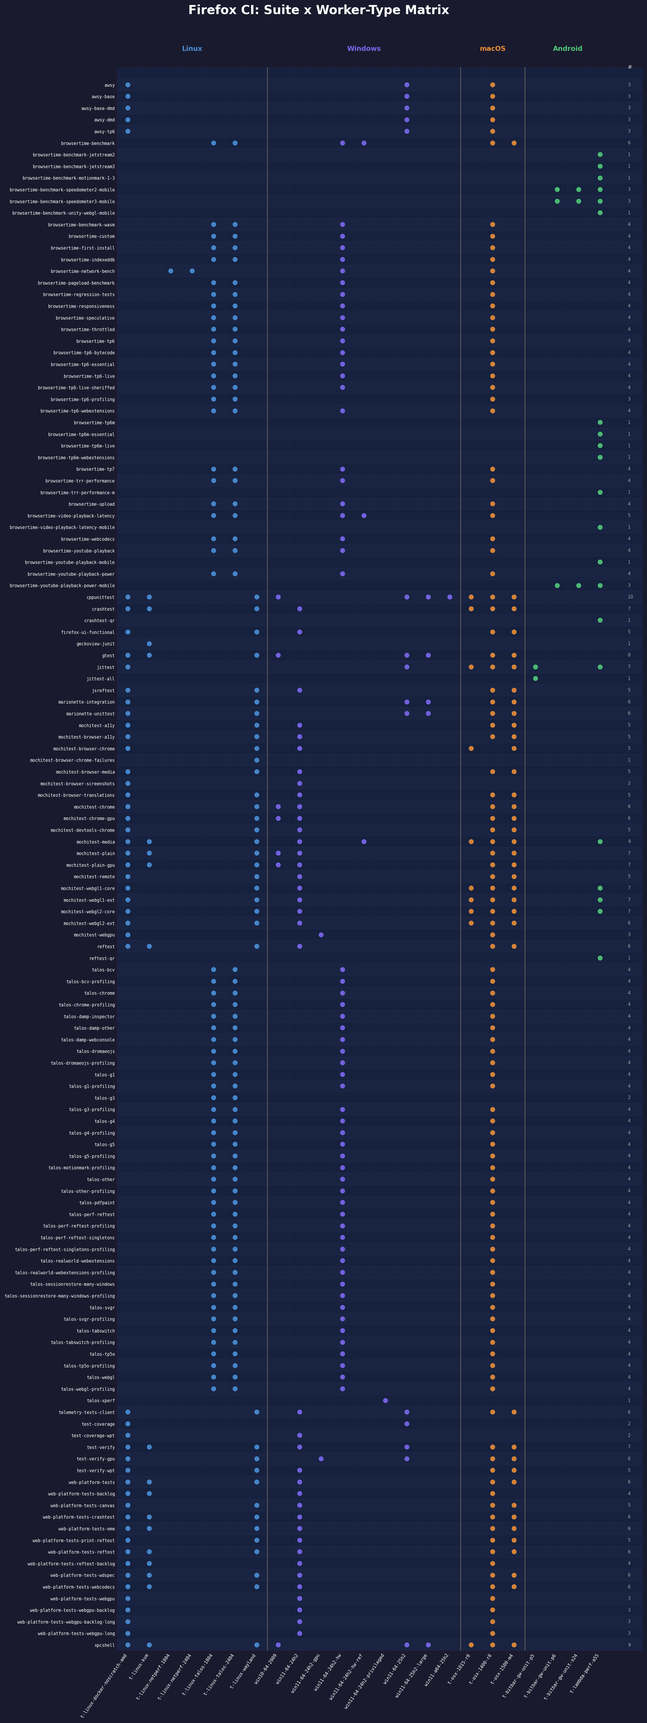
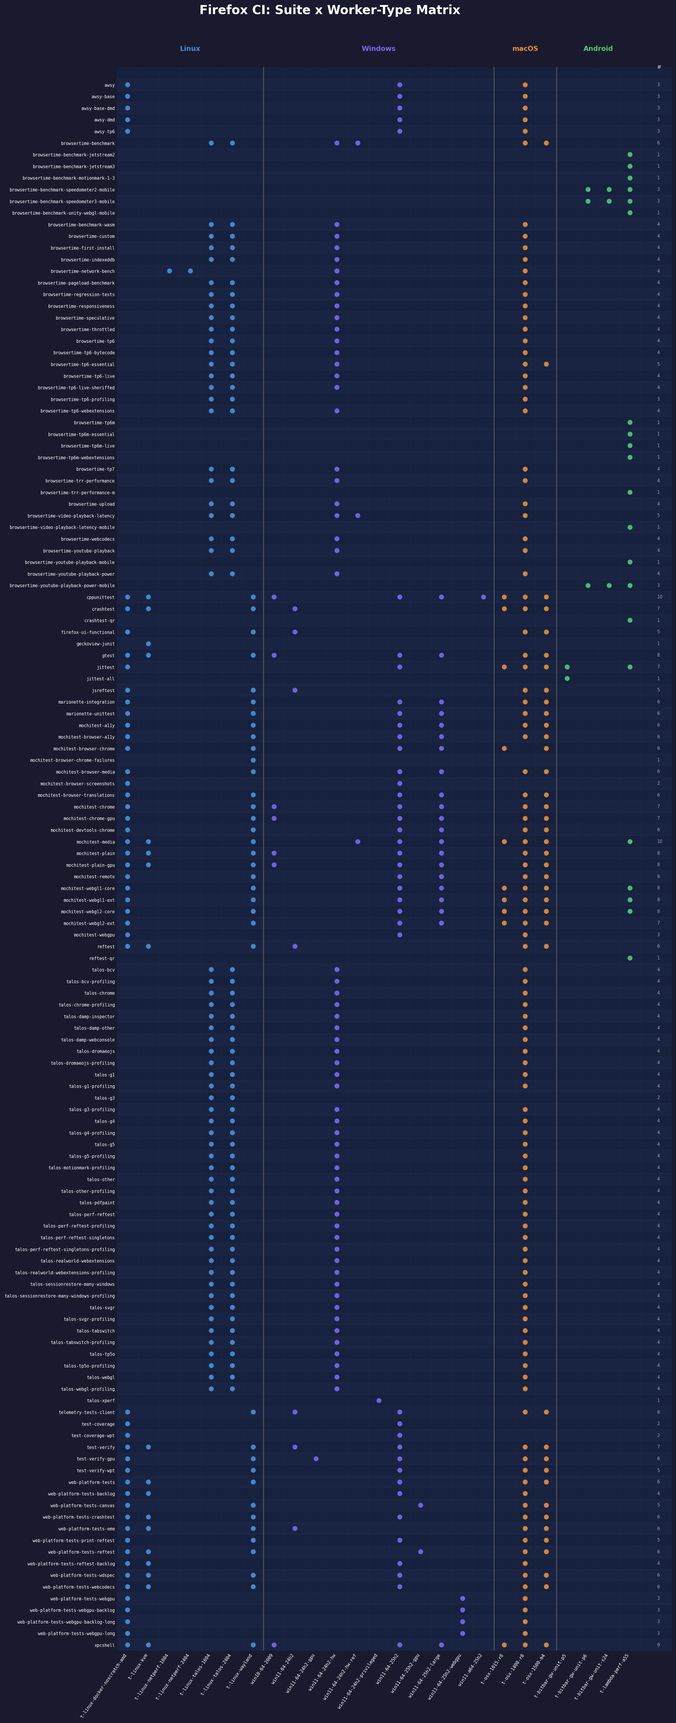
Fix tasks-nesting bug in parser, update data for 25H2 migration progress
Parser was missing worker-type overrides in kind files that nest suites
under a 'tasks:' key.

diff --git a/docs/suite_matrix.html b/docs/suite_matrix.html
@@ -195,7 +195,7 @@
 </div>
 
 <script>
-const data = {"worker_types": ["t-bitbar-gw-unit-p5", "t-bitbar-gw-unit-p6", "t-bitbar-gw-unit-s24", "t-lambda-perf-a55", "t-linux-docker-noscratch-amd", "t-linux-kvm", "t-linux-netperf-1804", "t-linux-netperf-2404", "t-linux-talos-1804", "t-linux-talos-2404", "t-linux-wayland", "t-osx-1015-r8", "t-osx-1400-r8", "t-osx-1500-m4", "win10-64-2009", "win11-64-24h2", "win11-64-24h2-gpu", "win11-64-24h2-hw", "win11-64-24h2-hw-ref", "win11-64-24h2-privileged", "win11-64-25h2", "win11-64-25h2-large", "win11-a64-25h2"], "suites": ["awsy", "awsy-base", "awsy-base-dmd", "awsy-dmd", "awsy-tp6", "browsertime-benchmark", "browsertime-benchmark-jetstream2", "browsertime-benchmark-jetstream3", "browsertime-benchmark-motionmark-1-3", "browsertime-benchmark-speedometer2-mobile", "browsertime-benchmark-speedometer3-mobile", "browsertime-benchmark-unity-webgl-mobile", "browsertime-benchmark-wasm", "browsertime-custom", "browsertime-first-install", "browsertime-indexeddb", "browsertime-network-bench", "browsertime-pageload-benchmark", "browsertime-regression-tests", "browsertime-responsiveness", "browsertime-speculative", "browsertime-throttled", "browsertime-tp6", "browsertime-tp6-bytecode", "browsertime-tp6-essential", "browsertime-tp6-live", "browsertime-tp6-live-sheriffed", "browsertime-tp6-profiling", "browsertime-tp6-webextensions", "browsertime-tp6m", "browsertime-tp6m-essential", "browsertime-tp6m-live", "browsertime-tp6m-webextensions", "browsertime-tp7", "browsertime-trr-performance", "browsertime-trr-performance-m", "browsertime-upload", "browsertime-video-playback-latency", "browsertime-video-playback-latency-mobile", "browsertime-webcodecs", "browsertime-youtube-playback", "browsertime-youtube-playback-mobile", "browsertime-youtube-playback-power", "browsertime-youtube-playback-power-mobile", "cppunittest", "crashtest", "crashtest-qr", "firefox-ui-functional", "geckoview-junit", "gtest", "jittest", "jittest-all", "jsreftest", "marionette-integration", "marionette-unittest", "mochitest-a11y", "mochitest-browser-a11y", "mochitest-browser-chrome", "mochitest-browser-chrome-failures", "mochitest-browser-media", "mochitest-browser-screenshots", "mochitest-browser-translations", "mochitest-chrome", "mochitest-chrome-gpu", "mochitest-devtools-chrome", "mochitest-media", "mochitest-plain", "mochitest-plain-gpu", "mochitest-remote", "mochitest-webgl1-core", "mochitest-webgl1-ext", "mochitest-webgl2-core", "mochitest-webgl2-ext", "mochitest-webgpu", "reftest", "reftest-qr", "talos-bcv", "talos-bcv-profiling", "talos-chrome", "talos-chrome-profiling", "talos-damp-inspector", "talos-damp-other", "talos-damp-webconsole", "talos-dromaeojs", "talos-dromaeojs-profiling", "talos-g1", "talos-g1-profiling", "talos-g3", "talos-g3-profiling", "talos-g4", "talos-g4-profiling", "talos-g5", "talos-g5-profiling", "talos-motionmark-profiling", "talos-other", "talos-other-profiling", "talos-pdfpaint", "talos-perf-reftest", "talos-perf-reftest-profiling", "talos-perf-reftest-singletons", "talos-perf-reftest-singletons-profiling", "talos-realworld-webextensions", "talos-realworld-webextensions-profiling", "talos-sessionrestore-many-windows", "talos-sessionrestore-many-windows-profiling", "talos-svgr", "talos-svgr-profiling", "talos-tabswitch", "talos-tabswitch-profiling", "talos-tp5o", "talos-tp5o-profiling", "talos-webgl", "talos-webgl-profiling", "talos-xperf", "telemetry-tests-client", "test-coverage", "test-coverage-wpt", "test-verify", "test-verify-gpu", "test-verify-wpt", "web-platform-tests", "web-platform-tests-backlog", "web-platform-tests-canvas", "web-platform-tests-crashtest", "web-platform-tests-eme", "web-platform-tests-print-reftest", "web-platform-tests-reftest", "web-platform-tests-reftest-backlog", "web-platform-tests-wdspec", "web-platform-tests-webcodecs", "web-platform-tests-webgpu", "web-platform-tests-webgpu-backlog", "web-platform-tests-webgpu-backlog-long", "web-platform-tests-webgpu-long", "xpcshell"], "matrix": [[0, 0, 0, 0, 1, 0, 0, 0, 0, 0, 0, 0, 1, 0, 0, 0, 0, 0, 0, 0, 1, 0, 0], [0, 0, 0, 0, 1, 0, 0, 0, 0, 0, 0, 0, 1, 0, 0, 0, 0, 0, 0, 0, 1, 0, 0], [0, 0, 0, 0, 1, 0, 0, 0, 0, 0, 0, 0, 1, 0, 0, 0, 0, 0, 0, 0, 1, 0, 0], [0, 0, 0, 0, 1, 0, 0, 0, 0, 0, 0, 0, 1, 0, 0, 0, 0, 0, 0, 0, 1, 0, 0], [0, 0, 0, 0, 1, 0, 0, 0, 0, 0, 0, 0, 1, 0, 0, 0, 0, 0, 0, 0, 1, 0, 0], [0, 0, 0, 0, 0, 0, 0, 0, 1, 1, 0, 0, 1, 1, 0, 0, 0, 1, 1, 0, 0, 0, 0], [0, 0, 0, 1, 0, 0, 0, 0, 0, 0, 0, 0, 0, 0, 0, 0, 0, 0, 0, 0, 0, 0, 0], [0, 0, 0, 1, 0, 0, 0, 0, 0, 0, 0, 0, 0, 0, 0, 0, 0, 0, 0, 0, 0, 0, 0], [0, 0, 0, 1, 0, 0, 0, 0, 0, 0, 0, 0, 0, 0, 0, 0, 0, 0, 0, 0, 0, 0, 0], [0, 1, 1, 1, 0, 0, 0, 0, 0, 0, 0, 0, 0, 0, 0, 0, 0, 0, 0, 0, 0, 0, 0], [0, 1, 1, 1, 0, 0, 0, 0, 0, 0, 0, 0, 0, 0, 0, 0, 0, 0, 0, 0, 0, 0, 0], [0, 0, 0, 1, 0, 0, 0, 0, 0, 0, 0, 0, 0, 0, 0, 0, 0, 0, 0, 0, 0, 0, 0], [0, 0, 0, 0, 0, 0, 0, 0, 1, 1, 0, 0, 1, 0, 0, 0, 0, 1, 0, 0, 0, 0, 0], [0, 0, 0, 0, 0, 0, 0, 0, 1, 1, 0, 0, 1, 0, 0, 0, 0, 1, 0, 0, 0, 0, 0], [0, 0, 0, 0, 0, 0, 0, 0, 1, 1, 0, 0, 1, 0, 0, 0, 0, 1, 0, 0, 0, 0, 0], [0, 0, 0, 0, 0, 0, 0, 0, 1, 1, 0, 0, 1, 0, 0, 0, 0, 1, 0, 0, 0, 0, 0], [0, 0, 0, 0, 0, 0, 1, 1, 0, 0, 0, 0, 1, 0, 0, 0, 0, 1, 0, 0, 0, 0, 0], [0, 0, 0, 0, 0, 0, 0, 0, 1, 1, 0, 0, 1, 0, 0, 0, 0, 1, 0, 0, 0, 0, 0], [0, 0, 0, 0, 0, 0, 0, 0, 1, 1, 0, 0, 1, 0, 0, 0, 0, 1, 0, 0, 0, 0, 0], [0, 0, 0, 0, 0, 0, 0, 0, 1, 1, 0, 0, 1, 0, 0, 0, 0, 1, 0, 0, 0, 0, 0], [0, 0, 0, 0, 0, 0, 0, 0, 1, 1, 0, 0, 1, 0, 0, 0, 0, 1, 0, 0, 0, 0, 0], [0, 0, 0, 0, 0, 0, 0, 0, 1, 1, 0, 0, 1, 0, 0, 0, 0, 1, 0, 0, 0, 0, 0], [0, 0, 0, 0, 0, 0, 0, 0, 1, 1, 0, 0, 1, 0, 0, 0, 0, 1, 0, 0, 0, 0, 0], [0, 0, 0, 0, 0, 0, 0, 0, 1, 1, 0, 0, 1, 0, 0, 0, 0, 1, 0, 0, 0, 0, 0], [0, 0, 0, 0, 0, 0, 0, 0, 1, 1, 0, 0, 1, 0, 0, 0, 0, 1, 0, 0, 0, 0, 0], [0, 0, 0, 0, 0, 0, 0, 0, 1, 1, 0, 0, 1, 0, 0, 0, 0, 1, 0, 0, 0, 0, 0], [0, 0, 0, 0, 0, 0, 0, 0, 1, 1, 0, 0, 1, 0, 0, 0, 0, 1, 0, 0, 0, 0, 0], [0, 0, 0, 0, 0, 0, 0, 0, 1, 1, 0, 0, 1, 0, 0, 0, 0, 0, 0, 0, 0, 0, 0], [0, 0, 0, 0, 0, 0, 0, 0, 1, 1, 0, 0, 1, 0, 0, 0, 0, 1, 0, 0, 0, 0, 0], [0, 0, 0, 1, 0, 0, 0, 0, 0, 0, 0, 0, 0, 0, 0, 0, 0, 0, 0, 0, 0, 0, 0], [0, 0, 0, 1, 0, 0, 0, 0, 0, 0, 0, 0, 0, 0, 0, 0, 0, 0, 0, 0, 0, 0, 0], [0, 0, 0, 1, 0, 0, 0, 0, 0, 0, 0, 0, 0, 0, 0, 0, 0, 0, 0, 0, 0, 0, 0], [0, 0, 0, 1, 0, 0, 0, 0, 0, 0, 0, 0, 0, 0, 0, 0, 0, 0, 0, 0, 0, 0, 0], [0, 0, 0, 0, 0, 0, 0, 0, 1, 1, 0, 0, 1, 0, 0, 0, 0, 1, 0, 0, 0, 0, 0], [0, 0, 0, 0, 0, 0, 0, 0, 1, 1, 0, 0, 1, 0, 0, 0, 0, 1, 0, 0, 0, 0, 0], [0, 0, 0, 1, 0, 0, 0, 0, 0, 0, 0, 0, 0, 0, 0, 0, 0, 0, 0, 0, 0, 0, 0], [0, 0, 0, 0, 0, 0, 0, 0, 1, 1, 0, 0, 1, 0, 0, 0, 0, 1, 0, 0, 0, 0, 0], [0, 0, 0, 0, 0, 0, 0, 0, 1, 1, 0, 0, 1, 0, 0, 0, 0, 1, 1, 0, 0, 0, 0], [0, 0, 0, 1, 0, 0, 0, 0, 0, 0, 0, 0, 0, 0, 0, 0, 0, 0, 0, 0, 0, 0, 0], [0, 0, 0, 0, 0, 0, 0, 0, 1, 1, 0, 0, 1, 0, 0, 0, 0, 1, 0, 0, 0, 0, 0], [0, 0, 0, 0, 0, 0, 0, 0, 1, 1, 0, 0, 1, 0, 0, 0, 0, 1, 0, 0, 0, 0, 0], [0, 0, 0, 1, 0, 0, 0, 0, 0, 0, 0, 0, 0, 0, 0, 0, 0, 0, 0, 0, 0, 0, 0], [0, 0, 0, 0, 0, 0, 0, 0, 1, 1, 0, 0, 1, 0, 0, 0, 0, 1, 0, 0, 0, 0, 0], [0, 1, 1, 1, 0, 0, 0, 0, 0, 0, 0, 0, 0, 0, 0, 0, 0, 0, 0, 0, 0, 0, 0], [0, 0, 0, 0, 1, 1, 0, 0, 0, 0, 1, 1, 1, 1, 1, 0, 0, 0, 0, 0, 1, 1, 1], [0, 0, 0, 0, 1, 1, 0, 0, 0, 0, 1, 1, 1, 1, 0, 1, 0, 0, 0, 0, 0, 0, 0], [0, 0, 0, 1, 0, 0, 0, 0, 0, 0, 0, 0, 0, 0, 0, 0, 0, 0, 0, 0, 0, 0, 0], [0, 0, 0, 0, 1, 0, 0, 0, 0, 0, 1, 0, 1, 1, 0, 1, 0, 0, 0, 0, 0, 0, 0], [0, 0, 0, 0, 0, 1, 0, 0, 0, 0, 0, 0, 0, 0, 0, 0, 0, 0, 0, 0, 0, 0, 0], [0, 0, 0, 0, 1, 1, 0, 0, 0, 0, 1, 0, 1, 1, 1, 0, 0, 0, 0, 0, 1, 1, 0], [1, 0, 0, 1, 1, 0, 0, 0, 0, 0, 0, 1, 1, 1, 0, 0, 0, 0, 0, 0, 1, 0, 0], [1, 0, 0, 0, 0, 0, 0, 0, 0, 0, 0, 0, 0, 0, 0, 0, 0, 0, 0, 0, 0, 0, 0], [0, 0, 0, 0, 1, 0, 0, 0, 0, 0, 1, 0, 1, 1, 0, 1, 0, 0, 0, 0, 0, 0, 0], [0, 0, 0, 0, 1, 0, 0, 0, 0, 0, 1, 0, 1, 1, 0, 0, 0, 0, 0, 0, 1, 1, 0], [0, 0, 0, 0, 1, 0, 0, 0, 0, 0, 1, 0, 1, 1, 0, 0, 0, 0, 0, 0, 1, 1, 0], [0, 0, 0, 0, 1, 0, 0, 0, 0, 0, 1, 0, 1, 1, 0, 1, 0, 0, 0, 0, 0, 0, 0], [0, 0, 0, 0, 1, 0, 0, 0, 0, 0, 1, 0, 1, 1, 0, 1, 0, 0, 0, 0, 0, 0, 0], [0, 0, 0, 0, 1, 0, 0, 0, 0, 0, 1, 1, 0, 1, 0, 1, 0, 0, 0, 0, 0, 0, 0], [0, 0, 0, 0, 0, 0, 0, 0, 0, 0, 1, 0, 0, 0, 0, 0, 0, 0, 0, 0, 0, 0, 0], [0, 0, 0, 0, 1, 0, 0, 0, 0, 0, 1, 0, 1, 1, 0, 1, 0, 0, 0, 0, 0, 0, 0], [0, 0, 0, 0, 1, 0, 0, 0, 0, 0, 0, 0, 0, 0, 0, 1, 0, 0, 0, 0, 0, 0, 0], [0, 0, 0, 0, 1, 0, 0, 0, 0, 0, 1, 0, 1, 1, 0, 1, 0, 0, 0, 0, 0, 0, 0], [0, 0, 0, 0, 1, 0, 0, 0, 0, 0, 1, 0, 1, 1, 1, 1, 0, 0, 0, 0, 0, 0, 0], [0, 0, 0, 0, 1, 0, 0, 0, 0, 0, 1, 0, 1, 1, 1, 1, 0, 0, 0, 0, 0, 0, 0], [0, 0, 0, 0, 1, 0, 0, 0, 0, 0, 1, 0, 1, 1, 0, 1, 0, 0, 0, 0, 0, 0, 0], [0, 0, 0, 1, 1, 1, 0, 0, 0, 0, 1, 1, 1, 1, 0, 1, 0, 0, 1, 0, 0, 0, 0], [0, 0, 0, 0, 1, 1, 0, 0, 0, 0, 1, 0, 1, 1, 1, 1, 0, 0, 0, 0, 0, 0, 0], [0, 0, 0, 0, 1, 1, 0, 0, 0, 0, 1, 0, 1, 1, 1, 1, 0, 0, 0, 0, 0, 0, 0], [0, 0, 0, 0, 1, 0, 0, 0, 0, 0, 1, 0, 1, 1, 0, 1, 0, 0, 0, 0, 0, 0, 0], [0, 0, 0, 1, 1, 0, 0, 0, 0, 0, 1, 1, 1, 1, 0, 1, 0, 0, 0, 0, 0, 0, 0], [0, 0, 0, 1, 1, 0, 0, 0, 0, 0, 1, 1, 1, 1, 0, 1, 0, 0, 0, 0, 0, 0, 0], [0, 0, 0, 1, 1, 0, 0, 0, 0, 0, 1, 1, 1, 1, 0, 1, 0, 0, 0, 0, 0, 0, 0], [0, 0, 0, 0, 1, 0, 0, 0, 0, 0, 1, 1, 1, 1, 0, 1, 0, 0, 0, 0, 0, 0, 0], [0, 0, 0, 0, 1, 0, 0, 0, 0, 0, 0, 0, 1, 0, 0, 0, 1, 0, 0, 0, 0, 0, 0], [0, 0, 0, 0, 1, 1, 0, 0, 0, 0, 1, 0, 1, 1, 0, 1, 0, 0, 0, 0, 0, 0, 0], [0, 0, 0, 1, 0, 0, 0, 0, 0, 0, 0, 0, 0, 0, 0, 0, 0, 0, 0, 0, 0, 0, 0], [0, 0, 0, 0, 0, 0, 0, 0, 1, 1, 0, 0, 1, 0, 0, 0, 0, 1, 0, 0, 0, 0, 0], [0, 0, 0, 0, 0, 0, 0, 0, 1, 1, 0, 0, 1, 0, 0, 0, 0, 1, 0, 0, 0, 0, 0], [0, 0, 0, 0, 0, 0, 0, 0, 1, 1, 0, 0, 1, 0, 0, 0, 0, 1, 0, 0, 0, 0, 0], [0, 0, 0, 0, 0, 0, 0, 0, 1, 1, 0, 0, 1, 0, 0, 0, 0, 1, 0, 0, 0, 0, 0], [0, 0, 0, 0, 0, 0, 0, 0, 1, 1, 0, 0, 1, 0, 0, 0, 0, 1, 0, 0, 0, 0, 0], [0, 0, 0, 0, 0, 0, 0, 0, 1, 1, 0, 0, 1, 0, 0, 0, 0, 1, 0, 0, 0, 0, 0], [0, 0, 0, 0, 0, 0, 0, 0, 1, 1, 0, 0, 1, 0, 0, 0, 0, 1, 0, 0, 0, 0, 0], [0, 0, 0, 0, 0, 0, 0, 0, 1, 1, 0, 0, 1, 0, 0, 0, 0, 1, 0, 0, 0, 0, 0], [0, 0, 0, 0, 0, 0, 0, 0, 1, 1, 0, 0, 1, 0, 0, 0, 0, 1, 0, 0, 0, 0, 0], [0, 0, 0, 0, 0, 0, 0, 0, 1, 1, 0, 0, 1, 0, 0, 0, 0, 1, 0, 0, 0, 0, 0], [0, 0, 0, 0, 0, 0, 0, 0, 1, 1, 0, 0, 1, 0, 0, 0, 0, 1, 0, 0, 0, 0, 0], [0, 0, 0, 0, 0, 0, 0, 0, 1, 1, 0, 0, 0, 0, 0, 0, 0, 0, 0, 0, 0, 0, 0], [0, 0, 0, 0, 0, 0, 0, 0, 1, 1, 0, 0, 1, 0, 0, 0, 0, 1, 0, 0, 0, 0, 0], [0, 0, 0, 0, 0, 0, 0, 0, 1, 1, 0, 0, 1, 0, 0, 0, 0, 1, 0, 0, 0, 0, 0], [0, 0, 0, 0, 0, 0, 0, 0, 1, 1, 0, 0, 1, 0, 0, 0, 0, 1, 0, 0, 0, 0, 0], [0, 0, 0, 0, 0, 0, 0, 0, 1, 1, 0, 0, 1, 0, 0, 0, 0, 1, 0, 0, 0, 0, 0], [0, 0, 0, 0, 0, 0, 0, 0, 1, 1, 0, 0, 1, 0, 0, 0, 0, 1, 0, 0, 0, 0, 0], [0, 0, 0, 0, 0, 0, 0, 0, 1, 1, 0, 0, 1, 0, 0, 0, 0, 1, 0, 0, 0, 0, 0], [0, 0, 0, 0, 0, 0, 0, 0, 1, 1, 0, 0, 1, 0, 0, 0, 0, 1, 0, 0, 0, 0, 0], [0, 0, 0, 0, 0, 0, 0, 0, 1, 1, 0, 0, 1, 0, 0, 0, 0, 1, 0, 0, 0, 0, 0], [0, 0, 0, 0, 0, 0, 0, 0, 1, 1, 0, 0, 1, 0, 0, 0, 0, 1, 0, 0, 0, 0, 0], [0, 0, 0, 0, 0, 0, 0, 0, 1, 1, 0, 0, 1, 0, 0, 0, 0, 1, 0, 0, 0, 0, 0], [0, 0, 0, 0, 0, 0, 0, 0, 1, 1, 0, 0, 1, 0, 0, 0, 0, 1, 0, 0, 0, 0, 0], [0, 0, 0, 0, 0, 0, 0, 0, 1, 1, 0, 0, 1, 0, 0, 0, 0, 1, 0, 0, 0, 0, 0], [0, 0, 0, 0, 0, 0, 0, 0, 1, 1, 0, 0, 1, 0, 0, 0, 0, 1, 0, 0, 0, 0, 0], [0, 0, 0, 0, 0, 0, 0, 0, 1, 1, 0, 0, 1, 0, 0, 0, 0, 1, 0, 0, 0, 0, 0], [0, 0, 0, 0, 0, 0, 0, 0, 1, 1, 0, 0, 1, 0, 0, 0, 0, 1, 0, 0, 0, 0, 0], [0, 0, 0, 0, 0, 0, 0, 0, 1, 1, 0, 0, 1, 0, 0, 0, 0, 1, 0, 0, 0, 0, 0], [0, 0, 0, 0, 0, 0, 0, 0, 1, 1, 0, 0, 1, 0, 0, 0, 0, 1, 0, 0, 0, 0, 0], [0, 0, 0, 0, 0, 0, 0, 0, 1, 1, 0, 0, 1, 0, 0, 0, 0, 1, 0, 0, 0, 0, 0], [0, 0, 0, 0, 0, 0, 0, 0, 1, 1, 0, 0, 1, 0, 0, 0, 0, 1, 0, 0, 0, 0, 0], [0, 0, 0, 0, 0, 0, 0, 0, 1, 1, 0, 0, 1, 0, 0, 0, 0, 1, 0, 0, 0, 0, 0], [0, 0, 0, 0, 0, 0, 0, 0, 1, 1, 0, 0, 1, 0, 0, 0, 0, 1, 0, 0, 0, 0, 0], [0, 0, 0, 0, 0, 0, 0, 0, 1, 1, 0, 0, 1, 0, 0, 0, 0, 1, 0, 0, 0, 0, 0], [0, 0, 0, 0, 0, 0, 0, 0, 1, 1, 0, 0, 1, 0, 0, 0, 0, 1, 0, 0, 0, 0, 0], [0, 0, 0, 0, 0, 0, 0, 0, 1, 1, 0, 0, 1, 0, 0, 0, 0, 1, 0, 0, 0, 0, 0], [0, 0, 0, 0, 0, 0, 0, 0, 1, 1, 0, 0, 1, 0, 0, 0, 0, 1, 0, 0, 0, 0, 0], [0, 0, 0, 0, 0, 0, 0, 0, 0, 0, 0, 0, 0, 0, 0, 0, 0, 0, 0, 1, 0, 0, 0], [0, 0, 0, 0, 1, 0, 0, 0, 0, 0, 1, 0, 1, 1, 0, 1, 0, 0, 0, 0, 1, 0, 0], [0, 0, 0, 0, 1, 0, 0, 0, 0, 0, 0, 0, 0, 0, 0, 0, 0, 0, 0, 0, 1, 0, 0], [0, 0, 0, 0, 1, 0, 0, 0, 0, 0, 0, 0, 0, 0, 0, 1, 0, 0, 0, 0, 0, 0, 0], [0, 0, 0, 0, 1, 1, 0, 0, 0, 0, 1, 0, 1, 1, 0, 1, 0, 0, 0, 0, 1, 0, 0], [0, 0, 0, 0, 1, 0, 0, 0, 0, 0, 1, 0, 1, 1, 0, 0, 1, 0, 0, 0, 1, 0, 0], [0, 0, 0, 0, 1, 0, 0, 0, 0, 0, 1, 0, 1, 1, 0, 1, 0, 0, 0, 0, 0, 0, 0], [0, 0, 0, 0, 1, 1, 0, 0, 0, 0, 1, 0, 1, 1, 0, 1, 0, 0, 0, 0, 0, 0, 0], [0, 0, 0, 0, 1, 1, 0, 0, 0, 0, 0, 0, 1, 0, 0, 1, 0, 0, 0, 0, 0, 0, 0], [0, 0, 0, 0, 1, 0, 0, 0, 0, 0, 1, 0, 1, 1, 0, 1, 0, 0, 0, 0, 0, 0, 0], [0, 0, 0, 0, 1, 1, 0, 0, 0, 0, 1, 0, 1, 1, 0, 1, 0, 0, 0, 0, 0, 0, 0], [0, 0, 0, 0, 1, 1, 0, 0, 0, 0, 1, 0, 1, 1, 0, 1, 0, 0, 0, 0, 0, 0, 0], [0, 0, 0, 0, 1, 0, 0, 0, 0, 0, 1, 0, 1, 1, 0, 1, 0, 0, 0, 0, 0, 0, 0], [0, 0, 0, 0, 1, 1, 0, 0, 0, 0, 1, 0, 1, 1, 0, 1, 0, 0, 0, 0, 0, 0, 0], [0, 0, 0, 0, 1, 1, 0, 0, 0, 0, 0, 0, 1, 0, 0, 1, 0, 0, 0, 0, 0, 0, 0], [0, 0, 0, 0, 1, 1, 0, 0, 0, 0, 1, 0, 1, 1, 0, 1, 0, 0, 0, 0, 0, 0, 0], [0, 0, 0, 0, 1, 1, 0, 0, 0, 0, 1, 0, 1, 1, 0, 1, 0, 0, 0, 0, 0, 0, 0], [0, 0, 0, 0, 1, 0, 0, 0, 0, 0, 0, 0, 1, 0, 0, 1, 0, 0, 0, 0, 0, 0, 0], [0, 0, 0, 0, 1, 0, 0, 0, 0, 0, 0, 0, 1, 0, 0, 1, 0, 0, 0, 0, 0, 0, 0], [0, 0, 0, 0, 1, 0, 0, 0, 0, 0, 0, 0, 1, 0, 0, 1, 0, 0, 0, 0, 0, 0, 0], [0, 0, 0, 0, 1, 0, 0, 0, 0, 0, 0, 0, 1, 0, 0, 1, 0, 0, 0, 0, 0, 0, 0], [0, 0, 0, 0, 1, 1, 0, 0, 0, 0, 1, 1, 1, 1, 1, 0, 0, 0, 0, 0, 1, 1, 0]]};
+const data = {"worker_types": ["t-bitbar-gw-unit-p5", "t-bitbar-gw-unit-p6", "t-bitbar-gw-unit-s24", "t-lambda-perf-a55", "t-linux-docker-noscratch-amd", "t-linux-kvm", "t-linux-netperf-1804", "t-linux-netperf-2404", "t-linux-talos-1804", "t-linux-talos-2404", "t-linux-wayland", "t-osx-1015-r8", "t-osx-1400-r8", "t-osx-1500-m4", "win10-64-2009", "win11-64-24h2", "win11-64-24h2-gpu", "win11-64-24h2-hw", "win11-64-24h2-hw-ref", "win11-64-24h2-privileged", "win11-64-25h2", "win11-64-25h2-gpu", "win11-64-25h2-large", "win11-64-25h2-webgpu", "win11-a64-25h2"], "suites": ["awsy", "awsy-base", "awsy-base-dmd", "awsy-dmd", "awsy-tp6", "browsertime-benchmark", "browsertime-benchmark-jetstream2", "browsertime-benchmark-jetstream3", "browsertime-benchmark-motionmark-1-3", "browsertime-benchmark-speedometer2-mobile", "browsertime-benchmark-speedometer3-mobile", "browsertime-benchmark-unity-webgl-mobile", "browsertime-benchmark-wasm", "browsertime-custom", "browsertime-first-install", "browsertime-indexeddb", "browsertime-network-bench", "browsertime-pageload-benchmark", "browsertime-regression-tests", "browsertime-responsiveness", "browsertime-speculative", "browsertime-throttled", "browsertime-tp6", "browsertime-tp6-bytecode", "browsertime-tp6-essential", "browsertime-tp6-live", "browsertime-tp6-live-sheriffed", "browsertime-tp6-profiling", "browsertime-tp6-webextensions", "browsertime-tp6m", "browsertime-tp6m-essential", "browsertime-tp6m-live", "browsertime-tp6m-webextensions", "browsertime-tp7", "browsertime-trr-performance", "browsertime-trr-performance-m", "browsertime-upload", "browsertime-video-playback-latency", "browsertime-video-playback-latency-mobile", "browsertime-webcodecs", "browsertime-youtube-playback", "browsertime-youtube-playback-mobile", "browsertime-youtube-playback-power", "browsertime-youtube-playback-power-mobile", "cppunittest", "crashtest", "crashtest-qr", "firefox-ui-functional", "geckoview-junit", "gtest", "jittest", "jittest-all", "jsreftest", "marionette-integration", "marionette-unittest", "mochitest-a11y", "mochitest-browser-a11y", "mochitest-browser-chrome", "mochitest-browser-chrome-failures", "mochitest-browser-media", "mochitest-browser-screenshots", "mochitest-browser-translations", "mochitest-chrome", "mochitest-chrome-gpu", "mochitest-devtools-chrome", "mochitest-media", "mochitest-plain", "mochitest-plain-gpu", "mochitest-remote", "mochitest-webgl1-core", "mochitest-webgl1-ext", "mochitest-webgl2-core", "mochitest-webgl2-ext", "mochitest-webgpu", "reftest", "reftest-qr", "talos-bcv", "talos-bcv-profiling", "talos-chrome", "talos-chrome-profiling", "talos-damp-inspector", "talos-damp-other", "talos-damp-webconsole", "talos-dromaeojs", "talos-dromaeojs-profiling", "talos-g1", "talos-g1-profiling", "talos-g3", "talos-g3-profiling", "talos-g4", "talos-g4-profiling", "talos-g5", "talos-g5-profiling", "talos-motionmark-profiling", "talos-other", "talos-other-profiling", "talos-pdfpaint", "talos-perf-reftest", "talos-perf-reftest-profiling", "talos-perf-reftest-singletons", "talos-perf-reftest-singletons-profiling", "talos-realworld-webextensions", "talos-realworld-webextensions-profiling", "talos-sessionrestore-many-windows", "talos-sessionrestore-many-windows-profiling", "talos-svgr", "talos-svgr-profiling", "talos-tabswitch", "talos-tabswitch-profiling", "talos-tp5o", "talos-tp5o-profiling", "talos-webgl", "talos-webgl-profiling", "talos-xperf", "telemetry-tests-client", "test-coverage", "test-coverage-wpt", "test-verify", "test-verify-gpu", "test-verify-wpt", "web-platform-tests", "web-platform-tests-backlog", "web-platform-tests-canvas", "web-platform-tests-crashtest", "web-platform-tests-eme", "web-platform-tests-print-reftest", "web-platform-tests-reftest", "web-platform-tests-reftest-backlog", "web-platform-tests-wdspec", "web-platform-tests-webcodecs", "web-platform-tests-webgpu", "web-platform-tests-webgpu-backlog", "web-platform-tests-webgpu-backlog-long", "web-platform-tests-webgpu-long", "xpcshell"], "matrix": [[0, 0, 0, 0, 1, 0, 0, 0, 0, 0, 0, 0, 1, 0, 0, 0, 0, 0, 0, 0, 1, 0, 0, 0, 0], [0, 0, 0, 0, 1, 0, 0, 0, 0, 0, 0, 0, 1, 0, 0, 0, 0, 0, 0, 0, 1, 0, 0, 0, 0], [0, 0, 0, 0, 1, 0, 0, 0, 0, 0, 0, 0, 1, 0, 0, 0, 0, 0, 0, 0, 1, 0, 0, 0, 0], [0, 0, 0, 0, 1, 0, 0, 0, 0, 0, 0, 0, 1, 0, 0, 0, 0, 0, 0, 0, 1, 0, 0, 0, 0], [0, 0, 0, 0, 1, 0, 0, 0, 0, 0, 0, 0, 1, 0, 0, 0, 0, 0, 0, 0, 1, 0, 0, 0, 0], [0, 0, 0, 0, 0, 0, 0, 0, 1, 1, 0, 0, 1, 1, 0, 0, 0, 1, 1, 0, 0, 0, 0, 0, 0], [0, 0, 0, 1, 0, 0, 0, 0, 0, 0, 0, 0, 0, 0, 0, 0, 0, 0, 0, 0, 0, 0, 0, 0, 0], [0, 0, 0, 1, 0, 0, 0, 0, 0, 0, 0, 0, 0, 0, 0, 0, 0, 0, 0, 0, 0, 0, 0, 0, 0], [0, 0, 0, 1, 0, 0, 0, 0, 0, 0, 0, 0, 0, 0, 0, 0, 0, 0, 0, 0, 0, 0, 0, 0, 0], [0, 1, 1, 1, 0, 0, 0, 0, 0, 0, 0, 0, 0, 0, 0, 0, 0, 0, 0, 0, 0, 0, 0, 0, 0], [0, 1, 1, 1, 0, 0, 0, 0, 0, 0, 0, 0, 0, 0, 0, 0, 0, 0, 0, 0, 0, 0, 0, 0, 0], [0, 0, 0, 1, 0, 0, 0, 0, 0, 0, 0, 0, 0, 0, 0, 0, 0, 0, 0, 0, 0, 0, 0, 0, 0], [0, 0, 0, 0, 0, 0, 0, 0, 1, 1, 0, 0, 1, 0, 0, 0, 0, 1, 0, 0, 0, 0, 0, 0, 0], [0, 0, 0, 0, 0, 0, 0, 0, 1, 1, 0, 0, 1, 0, 0, 0, 0, 1, 0, 0, 0, 0, 0, 0, 0], [0, 0, 0, 0, 0, 0, 0, 0, 1, 1, 0, 0, 1, 0, 0, 0, 0, 1, 0, 0, 0, 0, 0, 0, 0], [0, 0, 0, 0, 0, 0, 0, 0, 1, 1, 0, 0, 1, 0, 0, 0, 0, 1, 0, 0, 0, 0, 0, 0, 0], [0, 0, 0, 0, 0, 0, 1, 1, 0, 0, 0, 0, 1, 0, 0, 0, 0, 1, 0, 0, 0, 0, 0, 0, 0], [0, 0, 0, 0, 0, 0, 0, 0, 1, 1, 0, 0, 1, 0, 0, 0, 0, 1, 0, 0, 0, 0, 0, 0, 0], [0, 0, 0, 0, 0, 0, 0, 0, 1, 1, 0, 0, 1, 0, 0, 0, 0, 1, 0, 0, 0, 0, 0, 0, 0], [0, 0, 0, 0, 0, 0, 0, 0, 1, 1, 0, 0, 1, 0, 0, 0, 0, 1, 0, 0, 0, 0, 0, 0, 0], [0, 0, 0, 0, 0, 0, 0, 0, 1, 1, 0, 0, 1, 0, 0, 0, 0, 1, 0, 0, 0, 0, 0, 0, 0], [0, 0, 0, 0, 0, 0, 0, 0, 1, 1, 0, 0, 1, 0, 0, 0, 0, 1, 0, 0, 0, 0, 0, 0, 0], [0, 0, 0, 0, 0, 0, 0, 0, 1, 1, 0, 0, 1, 0, 0, 0, 0, 1, 0, 0, 0, 0, 0, 0, 0], [0, 0, 0, 0, 0, 0, 0, 0, 1, 1, 0, 0, 1, 0, 0, 0, 0, 1, 0, 0, 0, 0, 0, 0, 0], [0, 0, 0, 0, 0, 0, 0, 0, 1, 1, 0, 0, 1, 1, 0, 0, 0, 1, 0, 0, 0, 0, 0, 0, 0], [0, 0, 0, 0, 0, 0, 0, 0, 1, 1, 0, 0, 1, 0, 0, 0, 0, 1, 0, 0, 0, 0, 0, 0, 0], [0, 0, 0, 0, 0, 0, 0, 0, 1, 1, 0, 0, 1, 0, 0, 0, 0, 1, 0, 0, 0, 0, 0, 0, 0], [0, 0, 0, 0, 0, 0, 0, 0, 1, 1, 0, 0, 1, 0, 0, 0, 0, 0, 0, 0, 0, 0, 0, 0, 0], [0, 0, 0, 0, 0, 0, 0, 0, 1, 1, 0, 0, 1, 0, 0, 0, 0, 1, 0, 0, 0, 0, 0, 0, 0], [0, 0, 0, 1, 0, 0, 0, 0, 0, 0, 0, 0, 0, 0, 0, 0, 0, 0, 0, 0, 0, 0, 0, 0, 0], [0, 0, 0, 1, 0, 0, 0, 0, 0, 0, 0, 0, 0, 0, 0, 0, 0, 0, 0, 0, 0, 0, 0, 0, 0], [0, 0, 0, 1, 0, 0, 0, 0, 0, 0, 0, 0, 0, 0, 0, 0, 0, 0, 0, 0, 0, 0, 0, 0, 0], [0, 0, 0, 1, 0, 0, 0, 0, 0, 0, 0, 0, 0, 0, 0, 0, 0, 0, 0, 0, 0, 0, 0, 0, 0], [0, 0, 0, 0, 0, 0, 0, 0, 1, 1, 0, 0, 1, 0, 0, 0, 0, 1, 0, 0, 0, 0, 0, 0, 0], [0, 0, 0, 0, 0, 0, 0, 0, 1, 1, 0, 0, 1, 0, 0, 0, 0, 1, 0, 0, 0, 0, 0, 0, 0], [0, 0, 0, 1, 0, 0, 0, 0, 0, 0, 0, 0, 0, 0, 0, 0, 0, 0, 0, 0, 0, 0, 0, 0, 0], [0, 0, 0, 0, 0, 0, 0, 0, 1, 1, 0, 0, 1, 0, 0, 0, 0, 1, 0, 0, 0, 0, 0, 0, 0], [0, 0, 0, 0, 0, 0, 0, 0, 1, 1, 0, 0, 1, 0, 0, 0, 0, 1, 1, 0, 0, 0, 0, 0, 0], [0, 0, 0, 1, 0, 0, 0, 0, 0, 0, 0, 0, 0, 0, 0, 0, 0, 0, 0, 0, 0, 0, 0, 0, 0], [0, 0, 0, 0, 0, 0, 0, 0, 1, 1, 0, 0, 1, 0, 0, 0, 0, 1, 0, 0, 0, 0, 0, 0, 0], [0, 0, 0, 0, 0, 0, 0, 0, 1, 1, 0, 0, 1, 0, 0, 0, 0, 1, 0, 0, 0, 0, 0, 0, 0], [0, 0, 0, 1, 0, 0, 0, 0, 0, 0, 0, 0, 0, 0, 0, 0, 0, 0, 0, 0, 0, 0, 0, 0, 0], [0, 0, 0, 0, 0, 0, 0, 0, 1, 1, 0, 0, 1, 0, 0, 0, 0, 1, 0, 0, 0, 0, 0, 0, 0], [0, 1, 1, 1, 0, 0, 0, 0, 0, 0, 0, 0, 0, 0, 0, 0, 0, 0, 0, 0, 0, 0, 0, 0, 0], [0, 0, 0, 0, 1, 1, 0, 0, 0, 0, 1, 1, 1, 1, 1, 0, 0, 0, 0, 0, 1, 0, 1, 0, 1], [0, 0, 0, 0, 1, 1, 0, 0, 0, 0, 1, 1, 1, 1, 0, 1, 0, 0, 0, 0, 0, 0, 0, 0, 0], [0, 0, 0, 1, 0, 0, 0, 0, 0, 0, 0, 0, 0, 0, 0, 0, 0, 0, 0, 0, 0, 0, 0, 0, 0], [0, 0, 0, 0, 1, 0, 0, 0, 0, 0, 1, 0, 1, 1, 0, 1, 0, 0, 0, 0, 0, 0, 0, 0, 0], [0, 0, 0, 0, 0, 1, 0, 0, 0, 0, 0, 0, 0, 0, 0, 0, 0, 0, 0, 0, 0, 0, 0, 0, 0], [0, 0, 0, 0, 1, 1, 0, 0, 0, 0, 1, 0, 1, 1, 1, 0, 0, 0, 0, 0, 1, 0, 1, 0, 0], [1, 0, 0, 1, 1, 0, 0, 0, 0, 0, 0, 1, 1, 1, 0, 0, 0, 0, 0, 0, 1, 0, 0, 0, 0], [1, 0, 0, 0, 0, 0, 0, 0, 0, 0, 0, 0, 0, 0, 0, 0, 0, 0, 0, 0, 0, 0, 0, 0, 0], [0, 0, 0, 0, 1, 0, 0, 0, 0, 0, 1, 0, 1, 1, 0, 1, 0, 0, 0, 0, 0, 0, 0, 0, 0], [0, 0, 0, 0, 1, 0, 0, 0, 0, 0, 1, 0, 1, 1, 0, 0, 0, 0, 0, 0, 1, 0, 1, 0, 0], [0, 0, 0, 0, 1, 0, 0, 0, 0, 0, 1, 0, 1, 1, 0, 0, 0, 0, 0, 0, 1, 0, 1, 0, 0], [0, 0, 0, 0, 1, 0, 0, 0, 0, 0, 1, 0, 1, 1, 0, 0, 0, 0, 0, 0, 1, 0, 1, 0, 0], [0, 0, 0, 0, 1, 0, 0, 0, 0, 0, 1, 0, 1, 1, 0, 0, 0, 0, 0, 0, 1, 0, 1, 0, 0], [0, 0, 0, 0, 1, 0, 0, 0, 0, 0, 1, 1, 0, 1, 0, 0, 0, 0, 0, 0, 1, 0, 1, 0, 0], [0, 0, 0, 0, 0, 0, 0, 0, 0, 0, 1, 0, 0, 0, 0, 0, 0, 0, 0, 0, 0, 0, 0, 0, 0], [0, 0, 0, 0, 1, 0, 0, 0, 0, 0, 1, 0, 1, 1, 0, 0, 0, 0, 0, 0, 1, 0, 1, 0, 0], [0, 0, 0, 0, 1, 0, 0, 0, 0, 0, 0, 0, 0, 0, 0, 0, 0, 0, 0, 0, 1, 0, 0, 0, 0], [0, 0, 0, 0, 1, 0, 0, 0, 0, 0, 1, 0, 1, 1, 0, 0, 0, 0, 0, 0, 1, 0, 1, 0, 0], [0, 0, 0, 0, 1, 0, 0, 0, 0, 0, 1, 0, 1, 1, 1, 0, 0, 0, 0, 0, 1, 0, 1, 0, 0], [0, 0, 0, 0, 1, 0, 0, 0, 0, 0, 1, 0, 1, 1, 1, 0, 0, 0, 0, 0, 1, 0, 1, 0, 0], [0, 0, 0, 0, 1, 0, 0, 0, 0, 0, 1, 0, 1, 1, 0, 0, 0, 0, 0, 0, 1, 0, 1, 0, 0], [0, 0, 0, 1, 1, 1, 0, 0, 0, 0, 1, 1, 1, 1, 0, 0, 0, 0, 1, 0, 1, 0, 1, 0, 0], [0, 0, 0, 0, 1, 1, 0, 0, 0, 0, 1, 0, 1, 1, 1, 0, 0, 0, 0, 0, 1, 0, 1, 0, 0], [0, 0, 0, 0, 1, 1, 0, 0, 0, 0, 1, 0, 1, 1, 1, 0, 0, 0, 0, 0, 1, 0, 1, 0, 0], [0, 0, 0, 0, 1, 0, 0, 0, 0, 0, 1, 0, 1, 1, 0, 0, 0, 0, 0, 0, 1, 0, 1, 0, 0], [0, 0, 0, 1, 1, 0, 0, 0, 0, 0, 1, 1, 1, 1, 0, 0, 0, 0, 0, 0, 1, 0, 1, 0, 0], [0, 0, 0, 1, 1, 0, 0, 0, 0, 0, 1, 1, 1, 1, 0, 0, 0, 0, 0, 0, 1, 0, 1, 0, 0], [0, 0, 0, 1, 1, 0, 0, 0, 0, 0, 1, 1, 1, 1, 0, 0, 0, 0, 0, 0, 1, 0, 1, 0, 0], [0, 0, 0, 0, 1, 0, 0, 0, 0, 0, 1, 1, 1, 1, 0, 0, 0, 0, 0, 0, 1, 0, 1, 0, 0], [0, 0, 0, 0, 1, 0, 0, 0, 0, 0, 0, 0, 1, 0, 0, 0, 0, 0, 0, 0, 1, 0, 0, 0, 0], [0, 0, 0, 0, 1, 1, 0, 0, 0, 0, 1, 0, 1, 1, 0, 1, 0, 0, 0, 0, 0, 0, 0, 0, 0], [0, 0, 0, 1, 0, 0, 0, 0, 0, 0, 0, 0, 0, 0, 0, 0, 0, 0, 0, 0, 0, 0, 0, 0, 0], [0, 0, 0, 0, 0, 0, 0, 0, 1, 1, 0, 0, 1, 0, 0, 0, 0, 1, 0, 0, 0, 0, 0, 0, 0], [0, 0, 0, 0, 0, 0, 0, 0, 1, 1, 0, 0, 1, 0, 0, 0, 0, 1, 0, 0, 0, 0, 0, 0, 0], [0, 0, 0, 0, 0, 0, 0, 0, 1, 1, 0, 0, 1, 0, 0, 0, 0, 1, 0, 0, 0, 0, 0, 0, 0], [0, 0, 0, 0, 0, 0, 0, 0, 1, 1, 0, 0, 1, 0, 0, 0, 0, 1, 0, 0, 0, 0, 0, 0, 0], [0, 0, 0, 0, 0, 0, 0, 0, 1, 1, 0, 0, 1, 0, 0, 0, 0, 1, 0, 0, 0, 0, 0, 0, 0], [0, 0, 0, 0, 0, 0, 0, 0, 1, 1, 0, 0, 1, 0, 0, 0, 0, 1, 0, 0, 0, 0, 0, 0, 0], [0, 0, 0, 0, 0, 0, 0, 0, 1, 1, 0, 0, 1, 0, 0, 0, 0, 1, 0, 0, 0, 0, 0, 0, 0], [0, 0, 0, 0, 0, 0, 0, 0, 1, 1, 0, 0, 1, 0, 0, 0, 0, 1, 0, 0, 0, 0, 0, 0, 0], [0, 0, 0, 0, 0, 0, 0, 0, 1, 1, 0, 0, 1, 0, 0, 0, 0, 1, 0, 0, 0, 0, 0, 0, 0], [0, 0, 0, 0, 0, 0, 0, 0, 1, 1, 0, 0, 1, 0, 0, 0, 0, 1, 0, 0, 0, 0, 0, 0, 0], [0, 0, 0, 0, 0, 0, 0, 0, 1, 1, 0, 0, 1, 0, 0, 0, 0, 1, 0, 0, 0, 0, 0, 0, 0], [0, 0, 0, 0, 0, 0, 0, 0, 1, 1, 0, 0, 0, 0, 0, 0, 0, 0, 0, 0, 0, 0, 0, 0, 0], [0, 0, 0, 0, 0, 0, 0, 0, 1, 1, 0, 0, 1, 0, 0, 0, 0, 1, 0, 0, 0, 0, 0, 0, 0], [0, 0, 0, 0, 0, 0, 0, 0, 1, 1, 0, 0, 1, 0, 0, 0, 0, 1, 0, 0, 0, 0, 0, 0, 0], [0, 0, 0, 0, 0, 0, 0, 0, 1, 1, 0, 0, 1, 0, 0, 0, 0, 1, 0, 0, 0, 0, 0, 0, 0], [0, 0, 0, 0, 0, 0, 0, 0, 1, 1, 0, 0, 1, 0, 0, 0, 0, 1, 0, 0, 0, 0, 0, 0, 0], [0, 0, 0, 0, 0, 0, 0, 0, 1, 1, 0, 0, 1, 0, 0, 0, 0, 1, 0, 0, 0, 0, 0, 0, 0], [0, 0, 0, 0, 0, 0, 0, 0, 1, 1, 0, 0, 1, 0, 0, 0, 0, 1, 0, 0, 0, 0, 0, 0, 0], [0, 0, 0, 0, 0, 0, 0, 0, 1, 1, 0, 0, 1, 0, 0, 0, 0, 1, 0, 0, 0, 0, 0, 0, 0], [0, 0, 0, 0, 0, 0, 0, 0, 1, 1, 0, 0, 1, 0, 0, 0, 0, 1, 0, 0, 0, 0, 0, 0, 0], [0, 0, 0, 0, 0, 0, 0, 0, 1, 1, 0, 0, 1, 0, 0, 0, 0, 1, 0, 0, 0, 0, 0, 0, 0], [0, 0, 0, 0, 0, 0, 0, 0, 1, 1, 0, 0, 1, 0, 0, 0, 0, 1, 0, 0, 0, 0, 0, 0, 0], [0, 0, 0, 0, 0, 0, 0, 0, 1, 1, 0, 0, 1, 0, 0, 0, 0, 1, 0, 0, 0, 0, 0, 0, 0], [0, 0, 0, 0, 0, 0, 0, 0, 1, 1, 0, 0, 1, 0, 0, 0, 0, 1, 0, 0, 0, 0, 0, 0, 0], [0, 0, 0, 0, 0, 0, 0, 0, 1, 1, 0, 0, 1, 0, 0, 0, 0, 1, 0, 0, 0, 0, 0, 0, 0], [0, 0, 0, 0, 0, 0, 0, 0, 1, 1, 0, 0, 1, 0, 0, 0, 0, 1, 0, 0, 0, 0, 0, 0, 0], [0, 0, 0, 0, 0, 0, 0, 0, 1, 1, 0, 0, 1, 0, 0, 0, 0, 1, 0, 0, 0, 0, 0, 0, 0], [0, 0, 0, 0, 0, 0, 0, 0, 1, 1, 0, 0, 1, 0, 0, 0, 0, 1, 0, 0, 0, 0, 0, 0, 0], [0, 0, 0, 0, 0, 0, 0, 0, 1, 1, 0, 0, 1, 0, 0, 0, 0, 1, 0, 0, 0, 0, 0, 0, 0], [0, 0, 0, 0, 0, 0, 0, 0, 1, 1, 0, 0, 1, 0, 0, 0, 0, 1, 0, 0, 0, 0, 0, 0, 0], [0, 0, 0, 0, 0, 0, 0, 0, 1, 1, 0, 0, 1, 0, 0, 0, 0, 1, 0, 0, 0, 0, 0, 0, 0], [0, 0, 0, 0, 0, 0, 0, 0, 1, 1, 0, 0, 1, 0, 0, 0, 0, 1, 0, 0, 0, 0, 0, 0, 0], [0, 0, 0, 0, 0, 0, 0, 0, 1, 1, 0, 0, 1, 0, 0, 0, 0, 1, 0, 0, 0, 0, 0, 0, 0], [0, 0, 0, 0, 0, 0, 0, 0, 1, 1, 0, 0, 1, 0, 0, 0, 0, 1, 0, 0, 0, 0, 0, 0, 0], [0, 0, 0, 0, 0, 0, 0, 0, 1, 1, 0, 0, 1, 0, 0, 0, 0, 1, 0, 0, 0, 0, 0, 0, 0], [0, 0, 0, 0, 0, 0, 0, 0, 1, 1, 0, 0, 1, 0, 0, 0, 0, 1, 0, 0, 0, 0, 0, 0, 0], [0, 0, 0, 0, 0, 0, 0, 0, 1, 1, 0, 0, 1, 0, 0, 0, 0, 1, 0, 0, 0, 0, 0, 0, 0], [0, 0, 0, 0, 0, 0, 0, 0, 0, 0, 0, 0, 0, 0, 0, 0, 0, 0, 0, 1, 0, 0, 0, 0, 0], [0, 0, 0, 0, 1, 0, 0, 0, 0, 0, 1, 0, 1, 1, 0, 1, 0, 0, 0, 0, 1, 0, 0, 0, 0], [0, 0, 0, 0, 1, 0, 0, 0, 0, 0, 0, 0, 0, 0, 0, 0, 0, 0, 0, 0, 1, 0, 0, 0, 0], [0, 0, 0, 0, 1, 0, 0, 0, 0, 0, 0, 0, 0, 0, 0, 0, 0, 0, 0, 0, 1, 0, 0, 0, 0], [0, 0, 0, 0, 1, 1, 0, 0, 0, 0, 1, 0, 1, 1, 0, 1, 0, 0, 0, 0, 1, 0, 0, 0, 0], [0, 0, 0, 0, 1, 0, 0, 0, 0, 0, 1, 0, 1, 1, 0, 0, 1, 0, 0, 0, 1, 0, 0, 0, 0], [0, 0, 0, 0, 1, 0, 0, 0, 0, 0, 1, 0, 1, 1, 0, 0, 0, 0, 0, 0, 1, 0, 0, 0, 0], [0, 0, 0, 0, 1, 1, 0, 0, 0, 0, 1, 0, 1, 1, 0, 0, 0, 0, 0, 0, 1, 0, 0, 0, 0], [0, 0, 0, 0, 1, 1, 0, 0, 0, 0, 0, 0, 1, 0, 0, 0, 0, 0, 0, 0, 1, 0, 0, 0, 0], [0, 0, 0, 0, 1, 0, 0, 0, 0, 0, 1, 0, 1, 1, 0, 0, 0, 0, 0, 0, 0, 1, 0, 0, 0], [0, 0, 0, 0, 1, 1, 0, 0, 0, 0, 1, 0, 1, 1, 0, 0, 0, 0, 0, 0, 1, 0, 0, 0, 0], [0, 0, 0, 0, 1, 1, 0, 0, 0, 0, 1, 0, 1, 1, 0, 1, 0, 0, 0, 0, 0, 0, 0, 0, 0], [0, 0, 0, 0, 1, 0, 0, 0, 0, 0, 1, 0, 1, 1, 0, 0, 0, 0, 0, 0, 1, 0, 0, 0, 0], [0, 0, 0, 0, 1, 1, 0, 0, 0, 0, 1, 0, 1, 1, 0, 0, 0, 0, 0, 0, 0, 1, 0, 0, 0], [0, 0, 0, 0, 1, 1, 0, 0, 0, 0, 0, 0, 1, 0, 0, 0, 0, 0, 0, 0, 1, 0, 0, 0, 0], [0, 0, 0, 0, 1, 1, 0, 0, 0, 0, 1, 0, 1, 1, 0, 0, 0, 0, 0, 0, 1, 0, 0, 0, 0], [0, 0, 0, 0, 1, 1, 0, 0, 0, 0, 1, 0, 1, 1, 0, 0, 0, 0, 0, 0, 1, 0, 0, 0, 0], [0, 0, 0, 0, 1, 0, 0, 0, 0, 0, 0, 0, 1, 0, 0, 0, 0, 0, 0, 0, 0, 0, 0, 1, 0], [0, 0, 0, 0, 1, 0, 0, 0, 0, 0, 0, 0, 1, 0, 0, 0, 0, 0, 0, 0, 0, 0, 0, 1, 0], [0, 0, 0, 0, 1, 0, 0, 0, 0, 0, 0, 0, 1, 0, 0, 0, 0, 0, 0, 0, 0, 0, 0, 1, 0], [0, 0, 0, 0, 1, 0, 0, 0, 0, 0, 0, 0, 1, 0, 0, 0, 0, 0, 0, 0, 0, 0, 0, 1, 0], [0, 0, 0, 0, 1, 1, 0, 0, 0, 0, 1, 1, 1, 1, 1, 0, 0, 0, 0, 0, 1, 0, 1, 0, 0]]};
 
 const osColors = {
   'Linux': 'linux',

diff --git a/scripts/parse_coverage.py b/scripts/parse_coverage.py
@@ -137,6 +137,10 @@ def parse_kinds_worker_type_overrides():
 
     For task-defaults overrides, suite_names_set contains all suites defined in that file.
     For per-suite overrides, it contains just that suite.
+
+    Handles two file formats:
+      - Flat: suites at top level (e.g., kinds/test/compiled.yml)
+      - Nested: suites under a 'tasks' key (e.g., kinds/mochitest/kind.yml)
     """
     overrides = []
     kinds_dirs = [
@@ -146,6 +150,9 @@ def parse_kinds_worker_type_overrides():
         FIREFOX / "taskcluster/kinds/reftest",
         FIREFOX / "taskcluster/kinds/browsertime",
     ]
+
+    METADATA_KEYS = {"task-defaults", "tasks-from", "loader",
+                     "kind-dependencies", "transforms", "tasks"}
 
     for kinds_dir in kinds_dirs:
         if not kinds_dir.exists():
@@ -158,12 +165,22 @@ def parse_kinds_worker_type_overrides():
             if not isinstance(data, dict):
                 continue
 
-            # Collect all suite names defined in this file
+            # Collect all suite names — handle both flat and tasks-nested formats
             file_suites = set()
-            for key, val in data.items():
-                if key not in ("task-defaults", "tasks-from", "loader",
-                               "kind-dependencies", "transforms") and isinstance(val, dict):
-                    file_suites.add(key)
+            suite_configs = {}  # suite_name -> config dict
+
+            if "tasks" in data and isinstance(data["tasks"], dict):
+                # Nested format: suites under 'tasks' key
+                for key, val in data["tasks"].items():
+                    if isinstance(val, dict):
+                        file_suites.add(key)
+                        suite_configs[key] = val
+            else:
+                # Flat format: suites at top level
+                for key, val in data.items():
+                    if key not in METADATA_KEYS and isinstance(val, dict):
+                        file_suites.add(key)
+                        suite_configs[key] = val
 
             # Check task-defaults for worker-type overrides
             # These apply ONLY to suites defined in this same file
@@ -182,8 +199,8 @@ def parse_kinds_worker_type_overrides():
                                     overrides.append((file_suites, pattern, worker_type, yml_file.name))
 
             # Check individual suite definitions for worker-type overrides
-            for suite_name, suite_config in data.items():
-                if suite_name in ("task-defaults", "tasks-from") or not isinstance(suite_config, dict):
+            for suite_name, suite_config in suite_configs.items():
+                if not isinstance(suite_config, dict):
                     continue
                 wt = suite_config.get("worker-type")
                 if isinstance(wt, str) and wt != "default":
